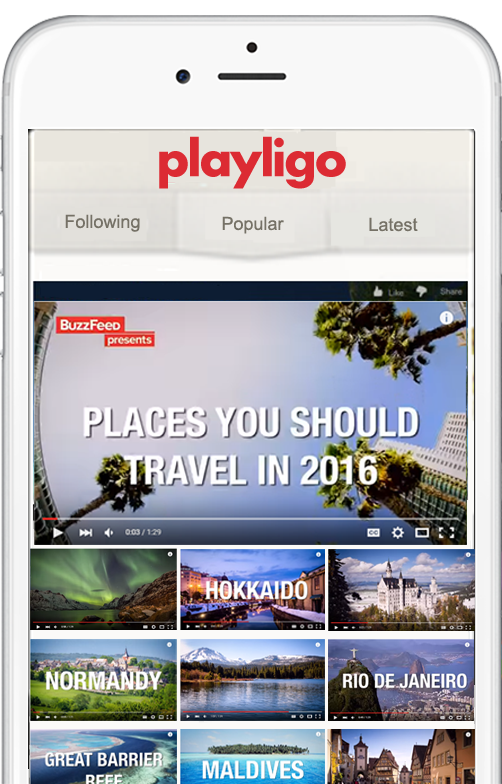
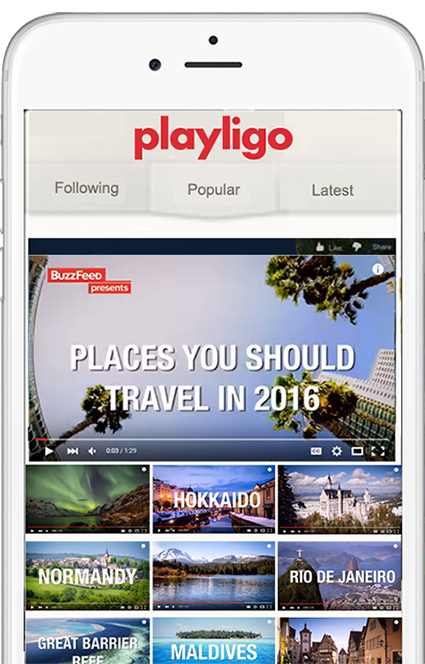
Touch up home page

diff --git a/public/build/css/app-40c4683661.css b/public/build/css/app-40c4683661.css
@@ -77,16 +77,16 @@
 .homepage h1 {
   margin-bottom: 40px;
   color: #ffffff;
-  text-shadow: 2px 2px #333333; }
+  text-shadow: 2px 2px 2px #333333; }
 
 .homepage h2 {
   margin-bottom: 40px;
   color: #ff9900;
-  text-shadow: 2px 2px #333333; }
+  text-shadow: 2px 2px 2px #333333; }
 
 .homepage h4 {
   color: #ffffff;
-  text-shadow: 2px 2px #333333; }
+  text-shadow: 2px 2px 2px #333333; }
 
 img.img-center {
   margin-left: auto;
@@ -97,6 +97,6 @@ img.img-center {
   width: 100%; }
 
 .form-homepage {
-  margin-top: 60px; }
+  margin-top: 0px; }
 
 /*# sourceMappingURL=app.css.map */

diff --git a/public/css/app.css b/public/css/app.css
@@ -77,16 +77,16 @@
 .homepage h1 {
   margin-bottom: 40px;
   color: #ffffff;
-  text-shadow: 2px 2px #333333; }
+  text-shadow: 2px 2px 2px #333333; }
 
 .homepage h2 {
   margin-bottom: 40px;
   color: #ff9900;
-  text-shadow: 2px 2px #333333; }
+  text-shadow: 2px 2px 2px #333333; }
 
 .homepage h4 {
   color: #ffffff;
-  text-shadow: 2px 2px #333333; }
+  text-shadow: 2px 2px 2px #333333; }
 
 img.img-center {
   margin-left: auto;
@@ -97,6 +97,6 @@ img.img-center {
   width: 100%; }
 
 .form-homepage {
-  margin-top: 60px; }
+  margin-top: 0px; }
 
 /*# sourceMappingURL=app.css.map */

diff --git a/resources/assets/sass/app_teaser.scss b/resources/assets/sass/app_teaser.scss
@@ -12,18 +12,18 @@
 .homepage h1{
     margin-bottom: 40px;
     color: #ffffff;
-    text-shadow: 2px 2px #333333;
+    text-shadow: 2px 2px 2px #333333;
 }
 
 .homepage h2{
     margin-bottom: 40px;
     color: #ff9900;
-    text-shadow: 2px 2px #333333;
+    text-shadow: 2px 2px 2px #333333;
 }
 
 .homepage h4{
     color: #ffffff;
-    text-shadow: 2px 2px #333333;
+    text-shadow: 2px 2px 2px #333333;
 }
 
 img.img-center{
@@ -37,5 +37,5 @@ img.img-center{
 }
 
 .form-homepage{
-    margin-top: 60px;
+    margin-top: 0px;
 }

diff --git a/resources/views/welcome.blade.php b/resources/views/welcome.blade.php
@@ -12,7 +12,7 @@
     <div class="row">
       <div class="col-md-6">
         <div class="form-group">
-        {{ Form::text('email', '', ['class'=>'form-control input-lg']) }}
+        {{ Form::email('email', '', ['class'=>'form-control input-lg', 'placeholder'=>'Your Email']) }}
         </div>
       </div>
       <div class="col-md-6">
